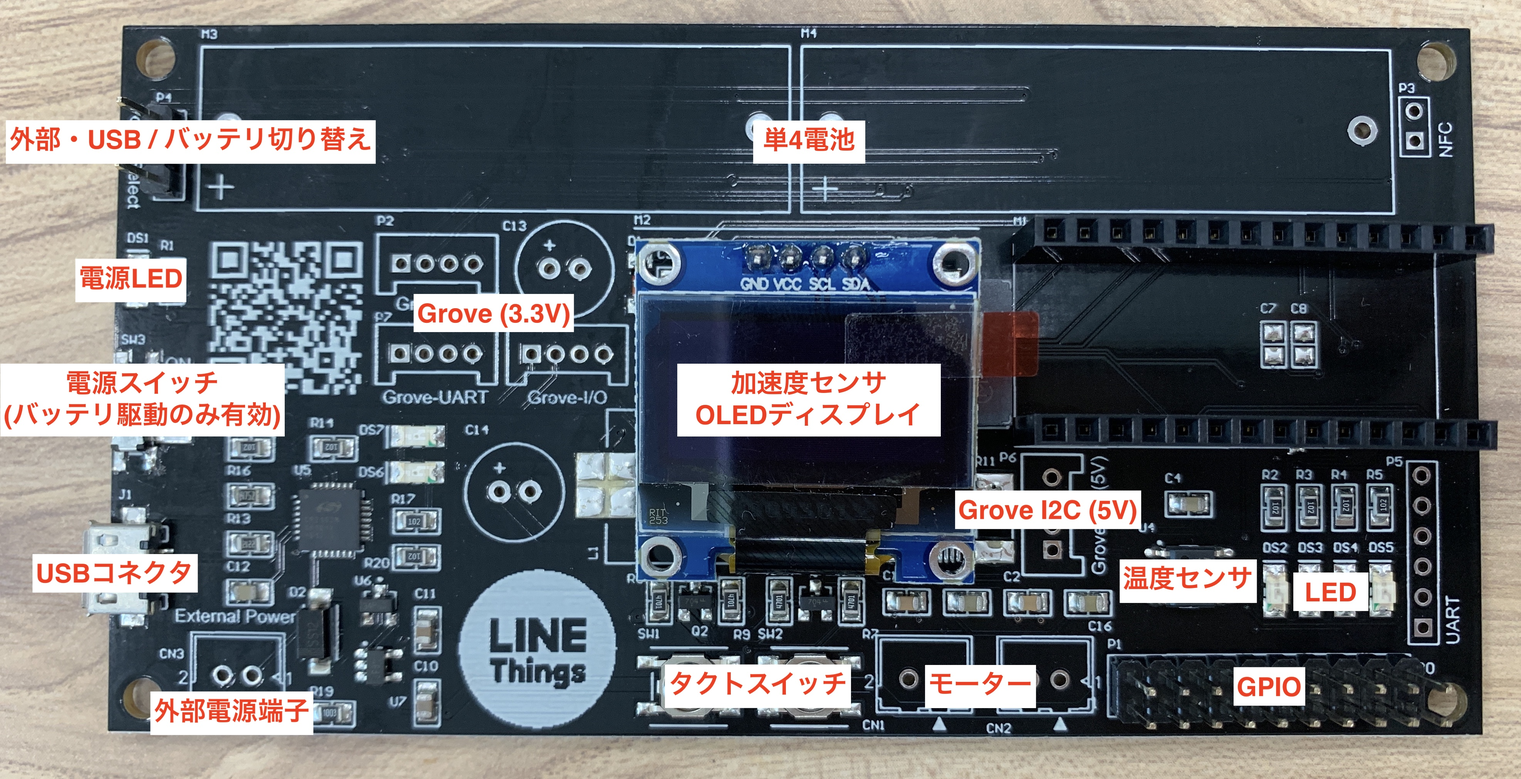
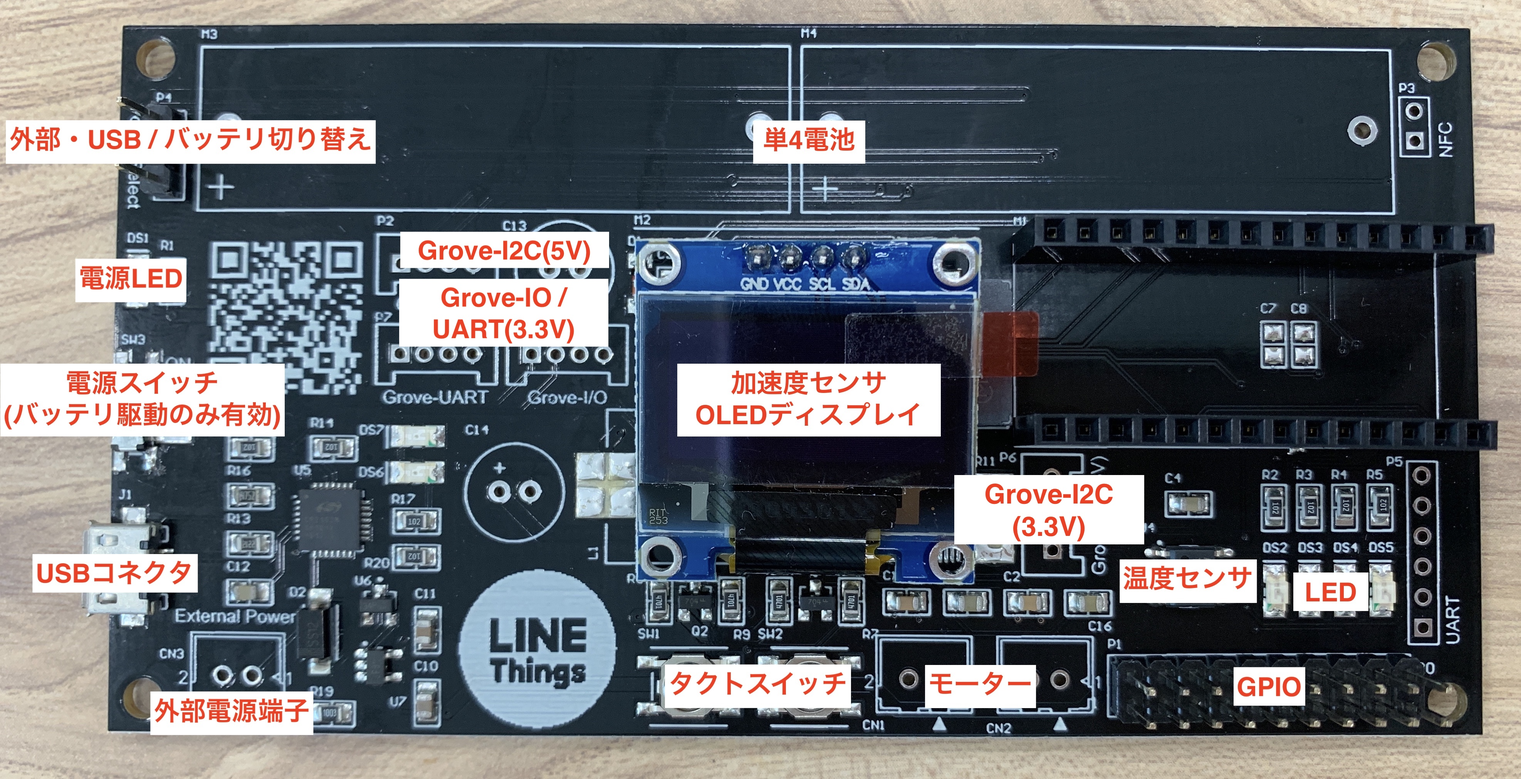
Update README, added image of power select (#1)
* add power select image file

* add image file

* update README

* update README

Changed region(s): [[0.2492, 0.2804, 0.405, 0.4674], [0.6231, 0.592, 0.7477, 0.7166]]

diff --git a/README.md b/README.md
@@ -64,7 +64,7 @@ LINE Things上でモーターを除くすべてのデバイスの状態を取得
 ファームウェアと LIFF を変更することなく独自のデバイスとして使用することを目的とした機能です。よくわからない方はこの機能を使用してないでください。
 
 このファームウェアは予め書き込まれていますが、書き換えたい場合などは `arduino/linethings-dev-default/linethings-dev-default.ino` を使用してください。
-このサンプルでは `things_temp_lib`、`Adafruit SSD1306` と `Adafruit GFX Library` を使用しています。`things_temp_lib` は `library/things_temp_lib` をzipファイルに圧縮して、ライブラリをインクルードからインストールしてください。Adafruitのライブラリは `Adafruit SSD1306` と `Adafruit GFX Library` をライブラリを管理からインストールしてください。
+このサンプルでは `things_temp_lib`、`SparkFun MMA8452Q Accelerometer`、`Adafruit SSD1306`、`Adafruit GFX Library` を使用しています。`things_temp_lib` は `library/things_temp_lib` をzipファイルに圧縮して、ライブラリをインクルードからインストールしてください。それ以外のライブラリはライブラリを管理からインストールしてください。
 
 
 このサンプルで使用しているLIFFは `liff-app/linethings-dev-default/` に格納されています。
@@ -87,6 +87,7 @@ LINE Things上でモーターを除くすべてのデバイスの状態を取得
 
 ## マザーボード
  * 基板上のP7とP8は説明が逆になっています。正しくはP7はGrove-I/Oで、P8がGrove-UARTです。
+ * 基板上の説明ではP6にGrove-I2C 5Vと記載されていますが、正しくはP6がI2C(3.3V)、P2がI2C(5V)となります。
  * 電源供給として電池を使用する場合は、電池の極性を間違えないようにしてください。間違えた場合デバイスが破損してしまうことがあります。
  * 3.3Vを外部に供給する場合は、CPU基板を含め全体で600mAを超えない範囲で使用してください。超えてしまうと電源ICが破損してしまうことがあります。
  * 外部電源を使用する場合は必ず電圧と極性を確認してください。
@@ -100,15 +101,19 @@ LINE Things上でモーターを除くすべてのデバイスの状態を取得
 
 ### 1. 電源を選択します
 マザーボードは外部電源及びUSB駆動または電池駆動をさせることが可能です。これらの設定を行う前にかならず *SW3* の電源スイッチをOFFにしてください。
-この設定は *P4* ピンで行うことができます。上側に設定することで外部電源及びUSB駆動、下側を設定すると電池駆動になります。
+USB接続の場合はUSBケーブルを抜いてください。
+電源の設定は *P4* ピンで行うことができます。上側に設定することで外部電源及びUSB駆動、下側を設定すると電池駆動になります。
+
+![Power select](img/motherboard_power.png)
+
 
  * 外部電源及びUSB駆動
-   * *P4* を写真のように上側に設定してください。
+   * *P4* を写真のように正面から見て上側に設定してください。
  * 電池駆動
-   * *P4* を写真のように下側に設定してください。
+   * *P4* を写真のように正面から見て下側に設定してください。
 
 ※単4電池駆動の場合5V系は使用できません。外部電源駆動にして使用してください。 \
-※USB電源駆動ではモーターを使用しないでください。電池または外部電源駆動にして使用してください。
+※USB電源駆動ではモーターを使用しないでください。外部電源駆動にして使用してください。
 
 
 ### 2. 電源をONにします。
@@ -549,7 +554,7 @@ void loop() {
 * 5V系統です。電池駆動ではご使用になれません。使用する場合は外部電源またはUSB給電をする必要があります。
 
 ## Grove端子(I2C)
-基板上では端子 *P6* となります。
+基板上では端子 *P6* となります。(基板上の説明ではP6にGrove-I2C 5Vと記載されていますが、正しくはP6がI2C-3.3V、P2がI2C-5Vとなります)
 
 
 
@@ -562,6 +567,7 @@ void loop() {
 
 ### 注意事項
 * 初期状態でこのコネクタは搭載されていません。使用するにはGroveコネクタをご自身ではんだ付けする必要があります。
+* 基板上の説明ではP6にGrove-I2C 5Vと記載されていますが、正しくはP6がI2C-3.3V、P2がI2C-5Vとなります。
 
 ## Grove端子(I2C / 5V系統)
 基板上では端子 *P2* となります。
@@ -576,12 +582,13 @@ void loop() {
 
 ### 注意事項
 * 初期状態でこのコネクタは搭載されていません。使用するにはGroveコネクタをご自身ではんだ付けする必要があります。
+* 基板上の説明ではP6にGrove-I2C 5Vと記載されていますが、正しくはP6がI2C-3.3V、P2がI2C-5Vとなります。
 * 5V系統です。電池駆動ではご使用になれません。使用する場合は外部電源またはUSB給電をする必要があります。
 * 接続する機器は5Vで動作するものを接続してください。3.3Vのデバイスを接続するとデバイスが破損する可能性があるのでご注意ください。
 
 
 ## Grove端子(UART)
-基板上の印刷ではP7となっていますが、正しくは端子 *P8* となります。
+基板上に *P8 / Grove-I/O* と印刷されているコネクタです。（P7はGrove-I/Oで、P8がGrove-UARTです）
 
 | コネクタピン番号 | ピン名称 | マイコンピン番号 |
 ----|----|----
@@ -595,7 +602,7 @@ void loop() {
 
 
 ## Grove端子(汎用デジタルI/O)
-基板上の印刷ではP8となっていますが、正しくは端子 *P7* となります。
+基板上に *P7 / Grove-UART* と印刷されているコネクタです。（P7はGrove-I/Oで、P8がGrove-UARTです）
 
 | コネクタピン番号 | ピン名称 | マイコンピン番号 |
 ----|----|----
